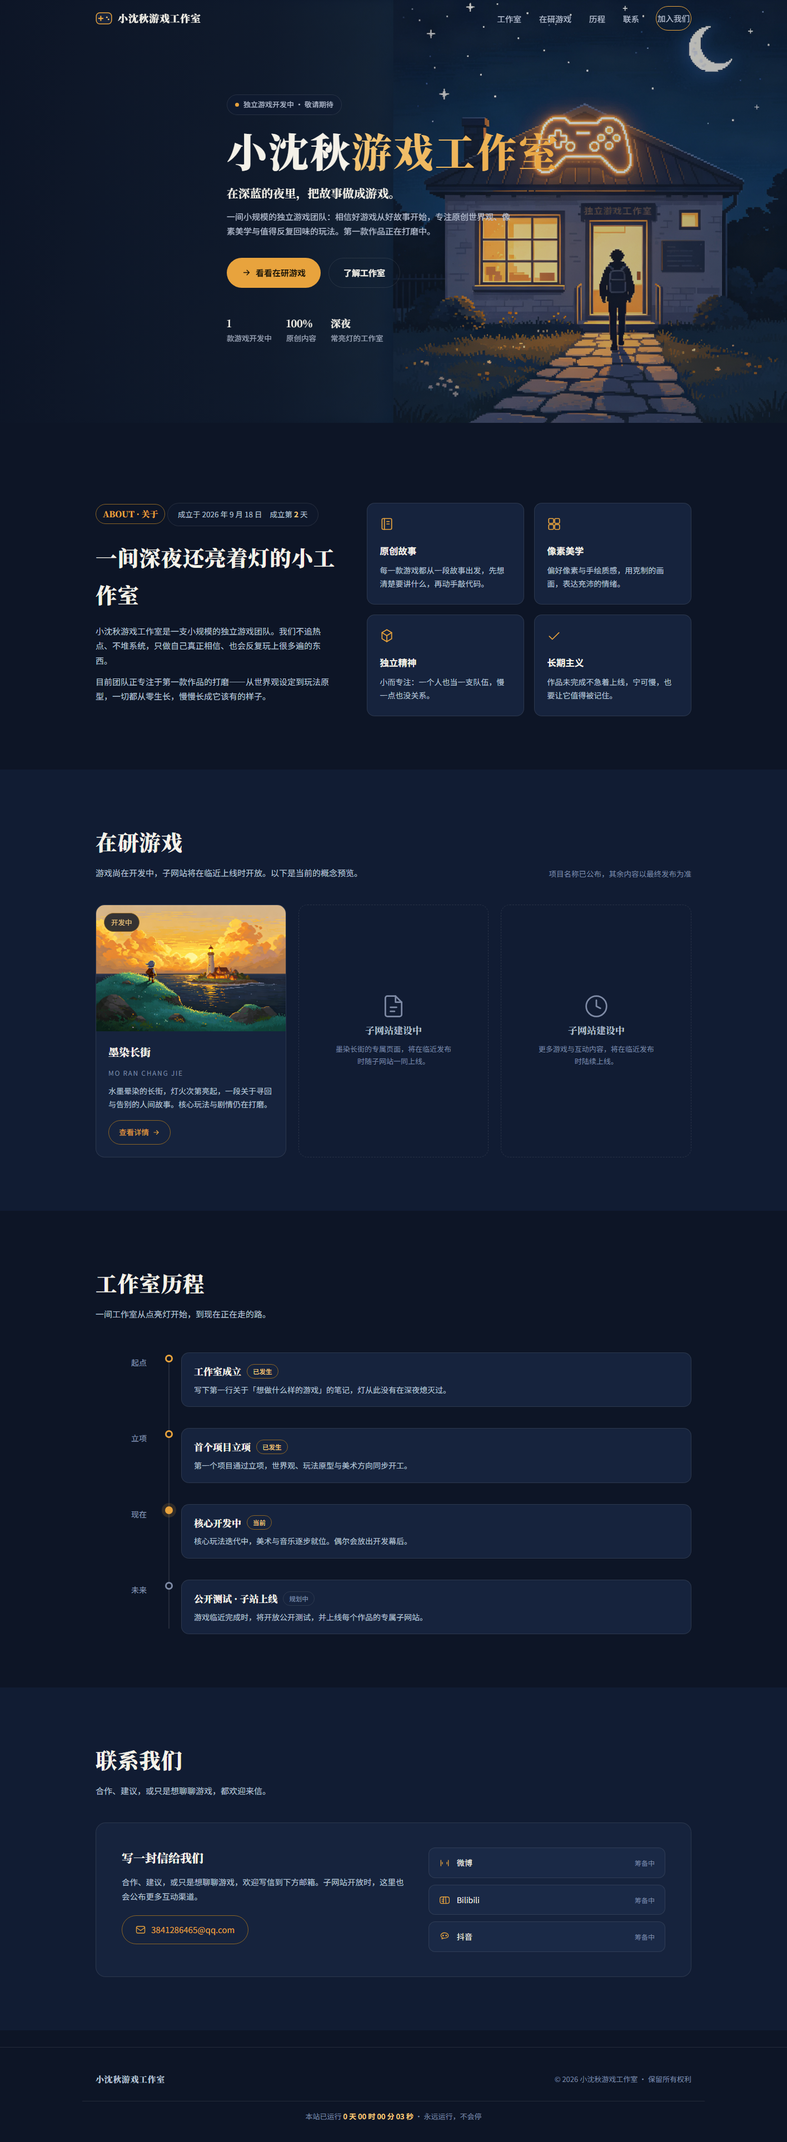
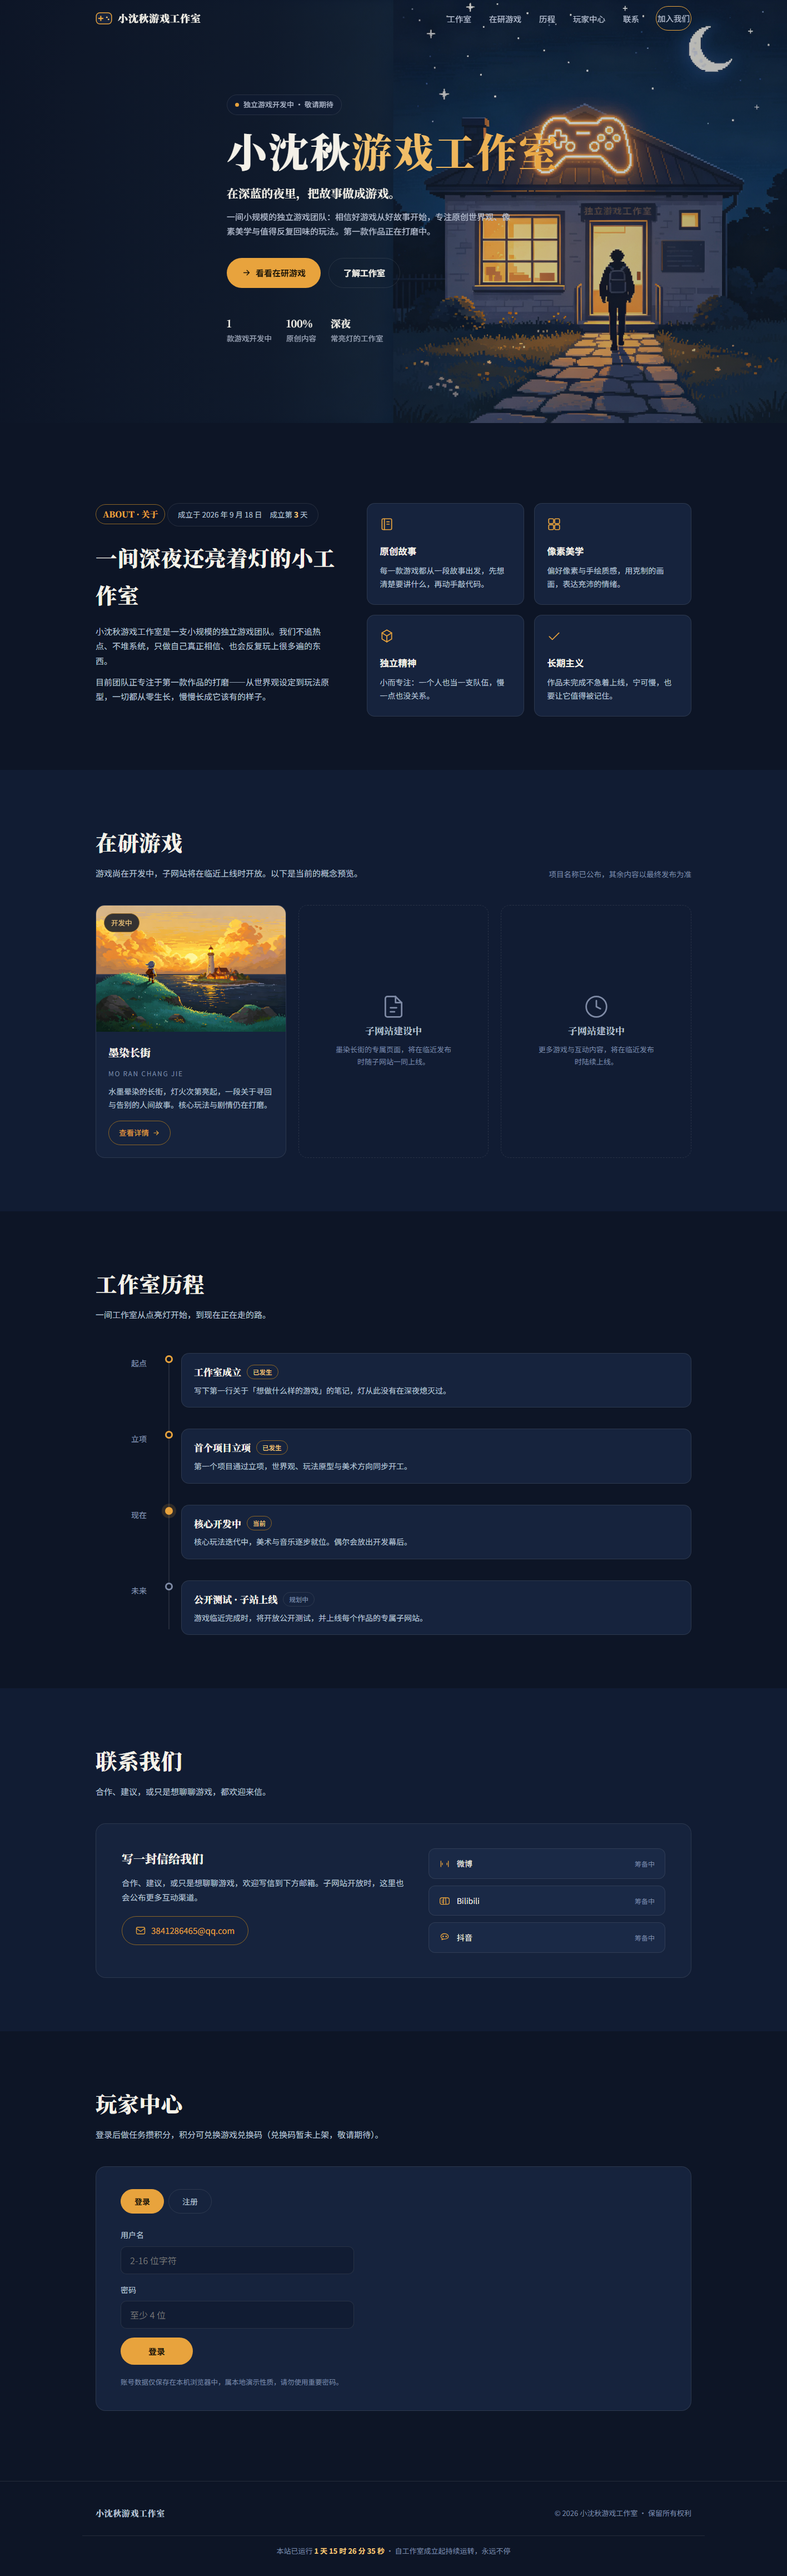
Add files via upload

diff --git a/index.html b/index.html
@@ -311,6 +311,65 @@
     .contact-card{grid-template-columns:1fr;padding:32px 26px}
   }
 
+  /* ===== 玩家中心 ===== */
+  .player-card{
+    margin-top:44px;background:var(--card);border:1px solid var(--line);border-radius:18px;
+    padding:40px 44px;
+  }
+  .auth-panel{max-width:420px}
+  .auth-tabs{display:flex;gap:8px;margin-bottom:26px}
+  .auth-tab{
+    background:none;border:1px solid var(--line);color:var(--ink-2);
+    padding:9px 24px;min-height:44px;border-radius:999px;font-size:14px;
+    transition:all .3s var(--ease-out);
+  }
+  .auth-tab.active{background:var(--amber);border-color:var(--amber);color:#1a1408;font-weight:700}
+  #authForm{display:flex;flex-direction:column;gap:16px}
+  #authForm label{display:flex;flex-direction:column;gap:8px;font-size:14px;color:var(--ink-2)}
+  #authForm input{
+    background:var(--bg-2);border:1px solid var(--line);border-radius:10px;color:var(--ink);
+    padding:12px 16px;font-size:16px;font-family:inherit;
+    transition:border-color .25s var(--ease-out);
+  }
+  #authForm input:focus{outline:none;border-color:var(--amber)}
+  #authForm .btn{align-self:flex-start;min-width:130px;justify-content:center}
+  .auth-tip{margin-top:4px;font-size:12.5px;color:var(--ink-3)}
+  .player-head{
+    display:flex;flex-wrap:wrap;gap:14px;align-items:center;justify-content:space-between;
+    padding-bottom:24px;border-bottom:1px solid var(--line);margin-bottom:26px;
+  }
+  .player-head h3{font-family:var(--font-serif);font-size:20px;font-weight:900}
+  .p-since{margin-top:6px;font-size:14px;color:var(--ink-2)}
+  .p-since b{color:var(--amber-2);font-size:22px;font-family:var(--font-serif)}
+  .player-grid{display:grid;grid-template-columns:1.4fr 1fr;gap:36px}
+  .tasks-col h4,.redeem-col h4{font-size:15px;color:var(--ink-2);margin-bottom:14px;letter-spacing:.06em}
+  .task-list{list-style:none;display:flex;flex-direction:column;gap:10px}
+  .task{
+    display:flex;align-items:center;gap:12px;background:var(--card-2);
+    border:1px solid var(--line);border-radius:12px;padding:14px 16px;
+  }
+  .task-info{display:flex;flex-direction:column;gap:2px;flex:1;min-width:0}
+  .task-name{font-size:14.5px;font-weight:700}
+  .task-desc{font-size:12.5px;color:var(--ink-3)}
+  .task-pts{color:var(--amber-2);font-size:13px;font-weight:700;flex:none}
+  .task-btn{
+    flex:none;background:var(--amber);border:none;color:#1a1408;font-size:13px;font-weight:700;
+    padding:8px 18px;min-height:44px;border-radius:999px;transition:all .3s var(--ease-out);
+  }
+  .task-btn:hover{background:var(--amber-2)}
+  .task-btn:disabled{background:var(--bg-2);color:var(--ink-3);border:1px solid var(--line);cursor:default}
+  .redeem-box{background:var(--card-2);border:1px solid var(--line);border-radius:14px;padding:24px}
+  .redeem-name{font-family:var(--font-serif);font-size:18px;font-weight:900}
+  .redeem-note{margin-top:8px;font-size:13.5px;color:var(--ink-2)}
+  .redeem-note b{color:var(--amber-2)}
+  .redeem-box .btn{margin-top:18px}
+  .redeem-tip{margin-top:12px;font-size:12.5px;color:var(--ink-3)}
+
+  @media (max-width:720px){
+    .player-card{padding:28px 22px}
+    .player-grid{grid-template-columns:1fr;gap:28px}
+  }
+
   /* ===== 动态入场 ===== */
   @keyframes heroIn{
     from{opacity:0;transform:translateY(28px) scale(.985);filter:blur(8px)}
@@ -359,6 +418,7 @@
         <li><a href="#about">工作室</a></li>
         <li><a href="#games">在研游戏</a></li>
         <li><a href="#journey">历程</a></li>
+        <li><a href="#player">玩家中心</a></li>
         <li><a href="#contact">联系</a></li>
         <li><a href="mailto:3841286465@qq.com" class="nav-cta">加入我们</a></li>
       </ul>
@@ -561,6 +621,59 @@
   </div>
 </section>
 
+<!-- ===== 玩家中心 ===== -->
+<section class="section" id="player">
+  <div class="wrap">
+    <h2 class="section-title">玩家中心</h2>
+    <p class="section-sub">登录后做任务攒积分，积分可兑换游戏兑换码（兑换码暂未上架，敬请期待）。</p>
+    <div class="player-card reveal" id="playerCard">
+
+      <div class="auth-panel" id="authPanel">
+        <div class="auth-tabs">
+          <button class="auth-tab active" id="tabLogin" type="button">登录</button>
+          <button class="auth-tab" id="tabReg" type="button">注册</button>
+        </div>
+        <form id="authForm">
+          <label>用户名
+            <input id="authUser" type="text" autocomplete="username" required minlength="2" maxlength="16" placeholder="2-16 位字符">
+          </label>
+          <label>密码
+            <input id="authPass" type="password" autocomplete="current-password" required minlength="4" maxlength="32" placeholder="至少 4 位">
+          </label>
+          <button class="btn btn-primary" type="submit" id="authSubmit">登录</button>
+          <p class="auth-tip">账号数据仅保存在本机浏览器中，属本地演示性质，请勿使用重要密码。</p>
+        </form>
+      </div>
+
+      <div class="player-panel" id="playerPanel" hidden>
+        <div class="player-head">
+          <div>
+            <h3>欢迎回来，<span id="pName">玩家</span></h3>
+            <p class="p-since">累计积分 <b id="pPoints">0</b></p>
+          </div>
+          <button class="btn btn-ghost" id="btnLogout" type="button">退出登录</button>
+        </div>
+        <div class="player-grid">
+          <div class="tasks-col">
+            <h4>今日任务</h4>
+            <ul class="task-list" id="taskList"></ul>
+          </div>
+          <div class="redeem-col">
+            <h4>积分兑换</h4>
+            <div class="redeem-box">
+              <p class="redeem-name">游戏兑换码</p>
+              <p class="redeem-note">每 <b>30</b> 积分可兑换 1 个 · 当前库存：<b id="redeemStock">0</b> 个</p>
+              <button class="btn btn-primary" id="btnRedeem" type="button">兑换</button>
+              <p class="redeem-tip" id="redeemTip">兑换码暂未上架，敬请期待。</p>
+            </div>
+          </div>
+        </div>
+      </div>
+
+    </div>
+  </div>
+</section>
+
 <!-- ===== 页脚 ===== -->
 <footer>
   <div class="wrap foot">
@@ -568,7 +681,7 @@
     <span>© 2026 小沈秋游戏工作室 · 保留所有权利</span>
   </div>
   <div class="wrap uptime">
-    <span>本站已运行 <b id="uptime">0 天 00 时 00 分 00 秒</b> · 永远运行，不会停</span>
+    <span>本站已运行 <b id="uptime">0 天 00 时 00 分 00 秒</b> · 自工作室成立起持续运转，永远不停</span>
   </div>
 </footer>
 
@@ -606,7 +719,7 @@
 
     // 滚动：顶栏背景 + 导航高亮 + 顶部进度条 + Hero 视差（rAF 合并成帧，丝滑）
     var header = document.getElementById('topbar');
-    var sections = ['about','games','journey','contact'].map(function(id){ return document.getElementById(id); });
+    var sections = ['about','games','journey','contact','player'].map(function(id){ return document.getElementById(id); });
     var linkMap = {};
     document.querySelectorAll('.nav-links a').forEach(function(a){
       var id = a.getAttribute('href');
@@ -731,16 +844,11 @@
     }
 
     // 成立时间与本站运行时间
-    // 成立起点：2026-09-18 00:00 +08:00
-    // 运行时间：从本站首次开始运行那一刻起算，并用 localStorage 持久化——
-    // 玩家关闭界面再打开，计时继续累计，不会从零开始、也不会停止
-    var START_KEY = 'shenqiu_uptime_start';
-    var startTime = 0;
-    try { startTime = parseInt(localStorage.getItem(START_KEY), 10); } catch(e) {}
-    if (!startTime || isNaN(startTime)) {
-      startTime = Date.now();
-      try { localStorage.setItem(START_KEY, String(startTime)); } catch(e) {}
-    }
+    // 成立起点：2026-09-18 00:00 +08:00（成立天数按自然日累计，18 号为第 1 天）
+    // 运行时间：从工作室正式成立那一刻（2026-09-18 22:00 +08:00）起算——
+    // 起点固定，即使关闭界面再打开，计时也继续累计，不会从零开始、也不会停止
+    var RUNTIME_START = new Date('2026-09-18T22:00:00+08:00').getTime();
+    var startTime = RUNTIME_START;
     var sinceStart = new Date('2026-09-18T00:00:00+08:00').getTime();
     function pad2(n){ return n < 10 ? '0' + n : n; }
     function tickTime(){
@@ -761,6 +869,142 @@
     }
     tickTime();
     setInterval(tickTime, 1000);
+
+    // ===== 玩家中心：登录 · 任务 · 积分 · 兑换 =====
+    var TASKS = [
+      {id:'daily',  name:'每日签到',         desc:'今天也要加油哦',                    pts:10, daily:true},
+      {id:'about',  name:'了解工作室',       desc:'读完「关于」里的故事',              pts:5,  daily:false},
+      {id:'games',  name:'查看在研游戏',     desc:'看看墨染长街的最新概念',            pts:5,  daily:false},
+      {id:'journey',name:'浏览工作室历程',   desc:'从起点一路看到未来',                pts:5,  daily:false},
+      {id:'social', name:'关注一个社交渠道', desc:'微博 / B站 / 抖音，任选其一',      pts:5,  daily:false},
+      {id:'mail',   name:'给工作室写一封信', desc:'发一封邮件到公开邮箱',              pts:10, daily:false}
+    ];
+    function hashPass(s){
+      var h = 5381;
+      for (var i = 0; i < s.length; i++) h = ((h << 5) + h + s.charCodeAt(i)) | 0;
+      return 'h' + (h >>> 0).toString(16);
+    }
+    function acctKey(u){ return 'shenqiu_player_' + u; }
+    function loadAcct(u){
+      try { return JSON.parse(localStorage.getItem(acctKey(u))); } catch(e) { return null; }
+    }
+    function saveAcct(u, a){
+      try { localStorage.setItem(acctKey(u), JSON.stringify(a)); } catch(e) {}
+    }
+    function todayStr(){
+      var d = new Date();
+      return d.getFullYear() + '-' + String(d.getMonth()+1).padStart(2,'0') + '-' + String(d.getDate()).padStart(2,'0');
+    }
+    var SESSION_KEY = 'shenqiu_session';
+    function sessionUser(){
+      try { return sessionStorage.getItem(SESSION_KEY); } catch(e) { return null; }
+    }
+    function currentAcct(){
+      var u = sessionUser();
+      if (!u) return null;
+      return loadAcct(u);
+    }
+    function isTaskDone(acct, t){
+      if (!acct || !acct.tasks || !acct.tasks[t.id]) return false;
+      return t.daily ? (acct.tasks[t.id] === todayStr()) : true;
+    }
+    var authPanel = document.getElementById('authPanel');
+    var playerPanel = document.getElementById('playerPanel');
+    var taskList = document.getElementById('taskList');
+    var pName = document.getElementById('pName');
+    var pPoints = document.getElementById('pPoints');
+    function updatePlayerUI(){
+      var acct = currentAcct();
+      var logged = !!acct;
+      authPanel.hidden = logged;
+      playerPanel.hidden = !logged;
+      if (logged){
+        pName.textContent = sessionUser();
+        pPoints.textContent = acct.points || 0;
+        renderTasks();
+      }
+    }
+    function renderTasks(){
+      var acct = currentAcct();
+      if (!acct) return;
+      taskList.innerHTML = '';
+      TASKS.forEach(function(t){
+        var done = isTaskDone(acct, t);
+        var li = document.createElement('li');
+        li.className = 'task';
+        li.innerHTML =
+          '<div class="task-info"><span class="task-name"></span><span class="task-desc"></span></div>' +
+          '<span class="task-pts"></span>' +
+          '<button class="task-btn" type="button"></button>';
+        li.querySelector('.task-name').textContent = t.name;
+        li.querySelector('.task-desc').textContent = t.desc;
+        li.querySelector('.task-pts').textContent = '+' + t.pts;
+        var btn = li.querySelector('.task-btn');
+        btn.textContent = done ? (t.daily ? '今日已签' : '已完成') : '领取';
+        btn.disabled = done;
+        if (!done){
+          btn.addEventListener('click', function(){
+            var a = currentAcct();
+            if (!a || isTaskDone(a, t)) return;
+            a.points = (a.points || 0) + t.pts;
+            if (!a.tasks) a.tasks = {};
+            a.tasks[t.id] = t.daily ? todayStr() : true;
+            saveAcct(sessionUser(), a);
+            updatePlayerUI();
+            toast('任务完成 +' + t.pts + ' 积分');
+          });
+        }
+        taskList.appendChild(li);
+      });
+    }
+    // 登录 / 注册
+    var authMode = 'login';
+    var tabLogin = document.getElementById('tabLogin');
+    var tabReg = document.getElementById('tabReg');
+    var authSubmit = document.getElementById('authSubmit');
+    var authUserInput = document.getElementById('authUser');
+    var authPassInput = document.getElementById('authPass');
+    function setAuthMode(m){
+      authMode = m;
+      tabLogin.classList.toggle('active', m === 'login');
+      tabReg.classList.toggle('active', m === 'reg');
+      authSubmit.textContent = m === 'login' ? '登录' : '注册并登录';
+      authPassInput.autocomplete = m === 'login' ? 'current-password' : 'new-password';
+    }
+    tabLogin.addEventListener('click', function(){ setAuthMode('login'); });
+    tabReg.addEventListener('click', function(){ setAuthMode('reg'); });
+    document.getElementById('authForm').addEventListener('submit', function(e){
+      e.preventDefault();
+      var user = authUserInput.value.trim();
+      var pass = authPassInput.value;
+      if (user.length < 2 || user.length > 16){ toast('用户名需为 2-16 位字符'); return; }
+      if (pass.length < 4 || pass.length > 32){ toast('密码需为 4-32 位'); return; }
+      var existing = loadAcct(user);
+      if (authMode === 'reg'){
+        if (existing){ toast('该用户名已注册，请直接登录'); return; }
+        saveAcct(user, {pass:hashPass(pass), points:0, tasks:{}, redeemed:0});
+        toast('注册成功，欢迎加入');
+      } else {
+        if (!existing || existing.pass !== hashPass(pass)){ toast('用户名或密码不正确'); return; }
+        toast('登录成功');
+      }
+      try { sessionStorage.setItem(SESSION_KEY, user); } catch(e) {}
+      authPassInput.value = '';
+      updatePlayerUI();
+    });
+    document.getElementById('btnLogout').addEventListener('click', function(){
+      try { sessionStorage.removeItem(SESSION_KEY); } catch(e) {}
+      toast('已退出登录');
+      updatePlayerUI();
+    });
+    // 兑换（暂时没有兑换码）
+    document.getElementById('btnRedeem').addEventListener('click', function(){
+      var acct = currentAcct();
+      if (!acct) return;
+      if ((acct.points || 0) < 30){ toast('积分不足，满 30 分可兑换'); return; }
+      toast('兑换码暂未上架，敬请期待');
+    });
+    updatePlayerUI();
   })();
 </script>
 </body>
